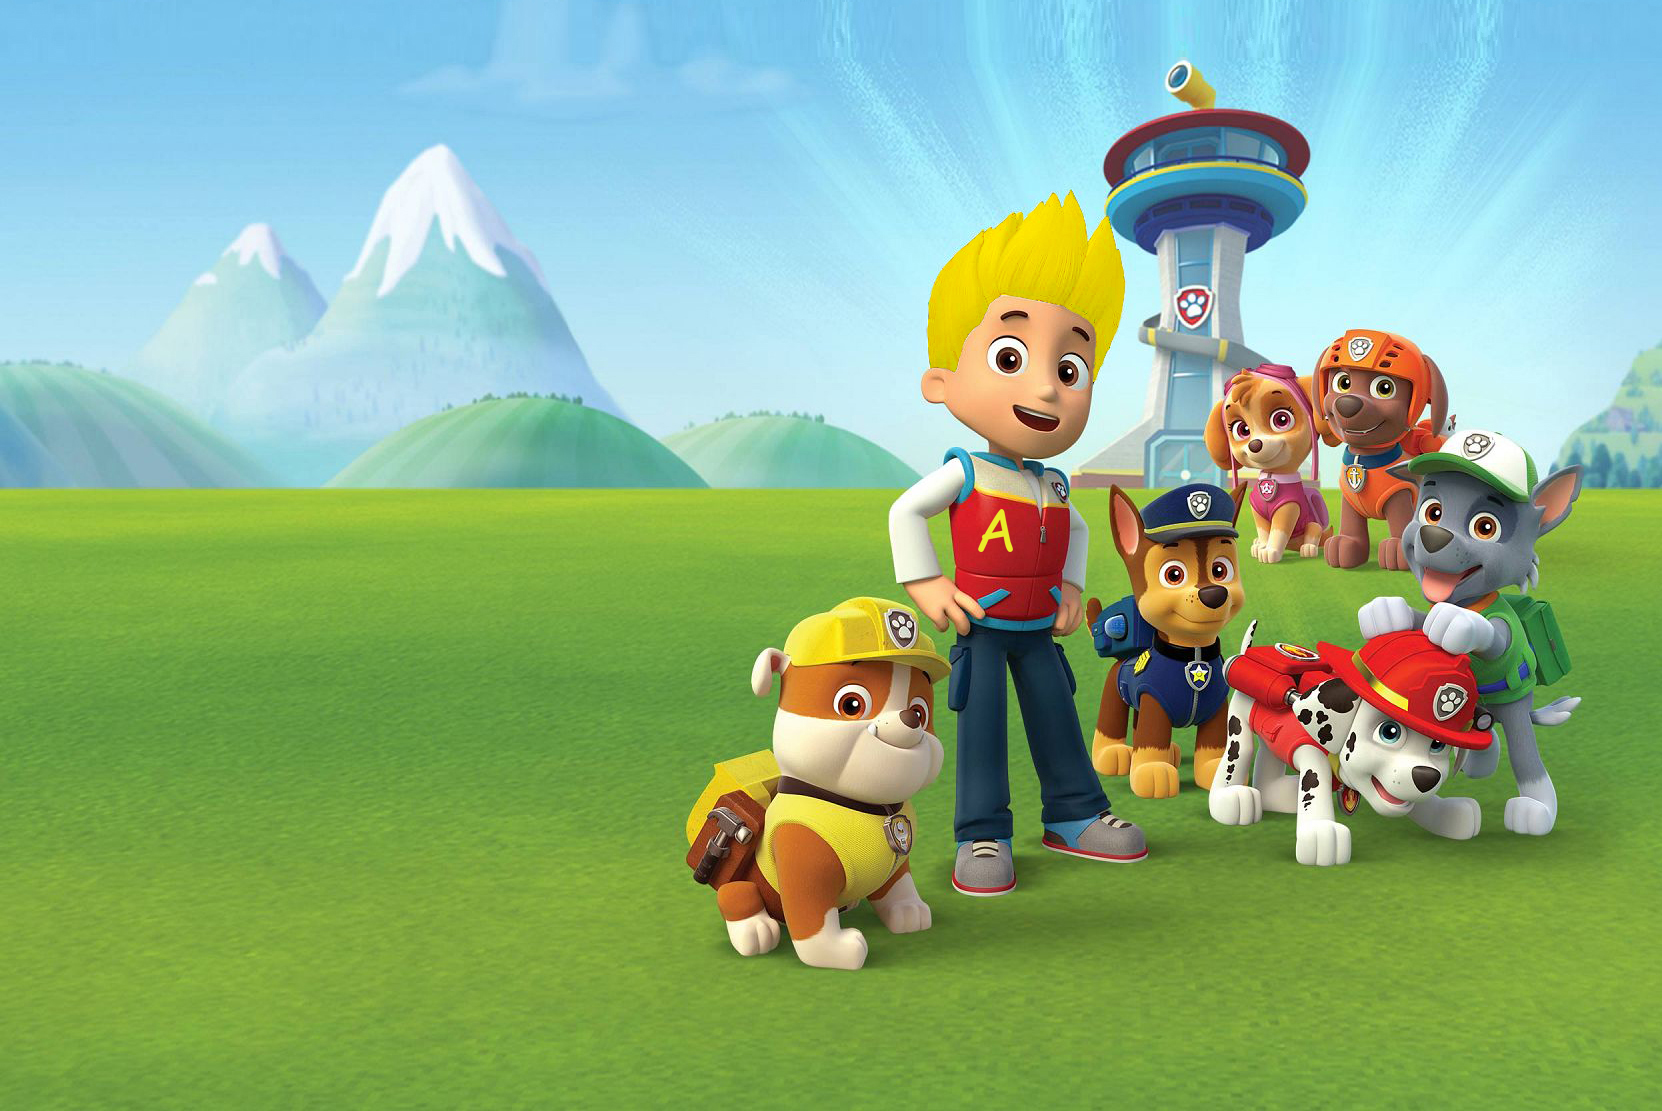
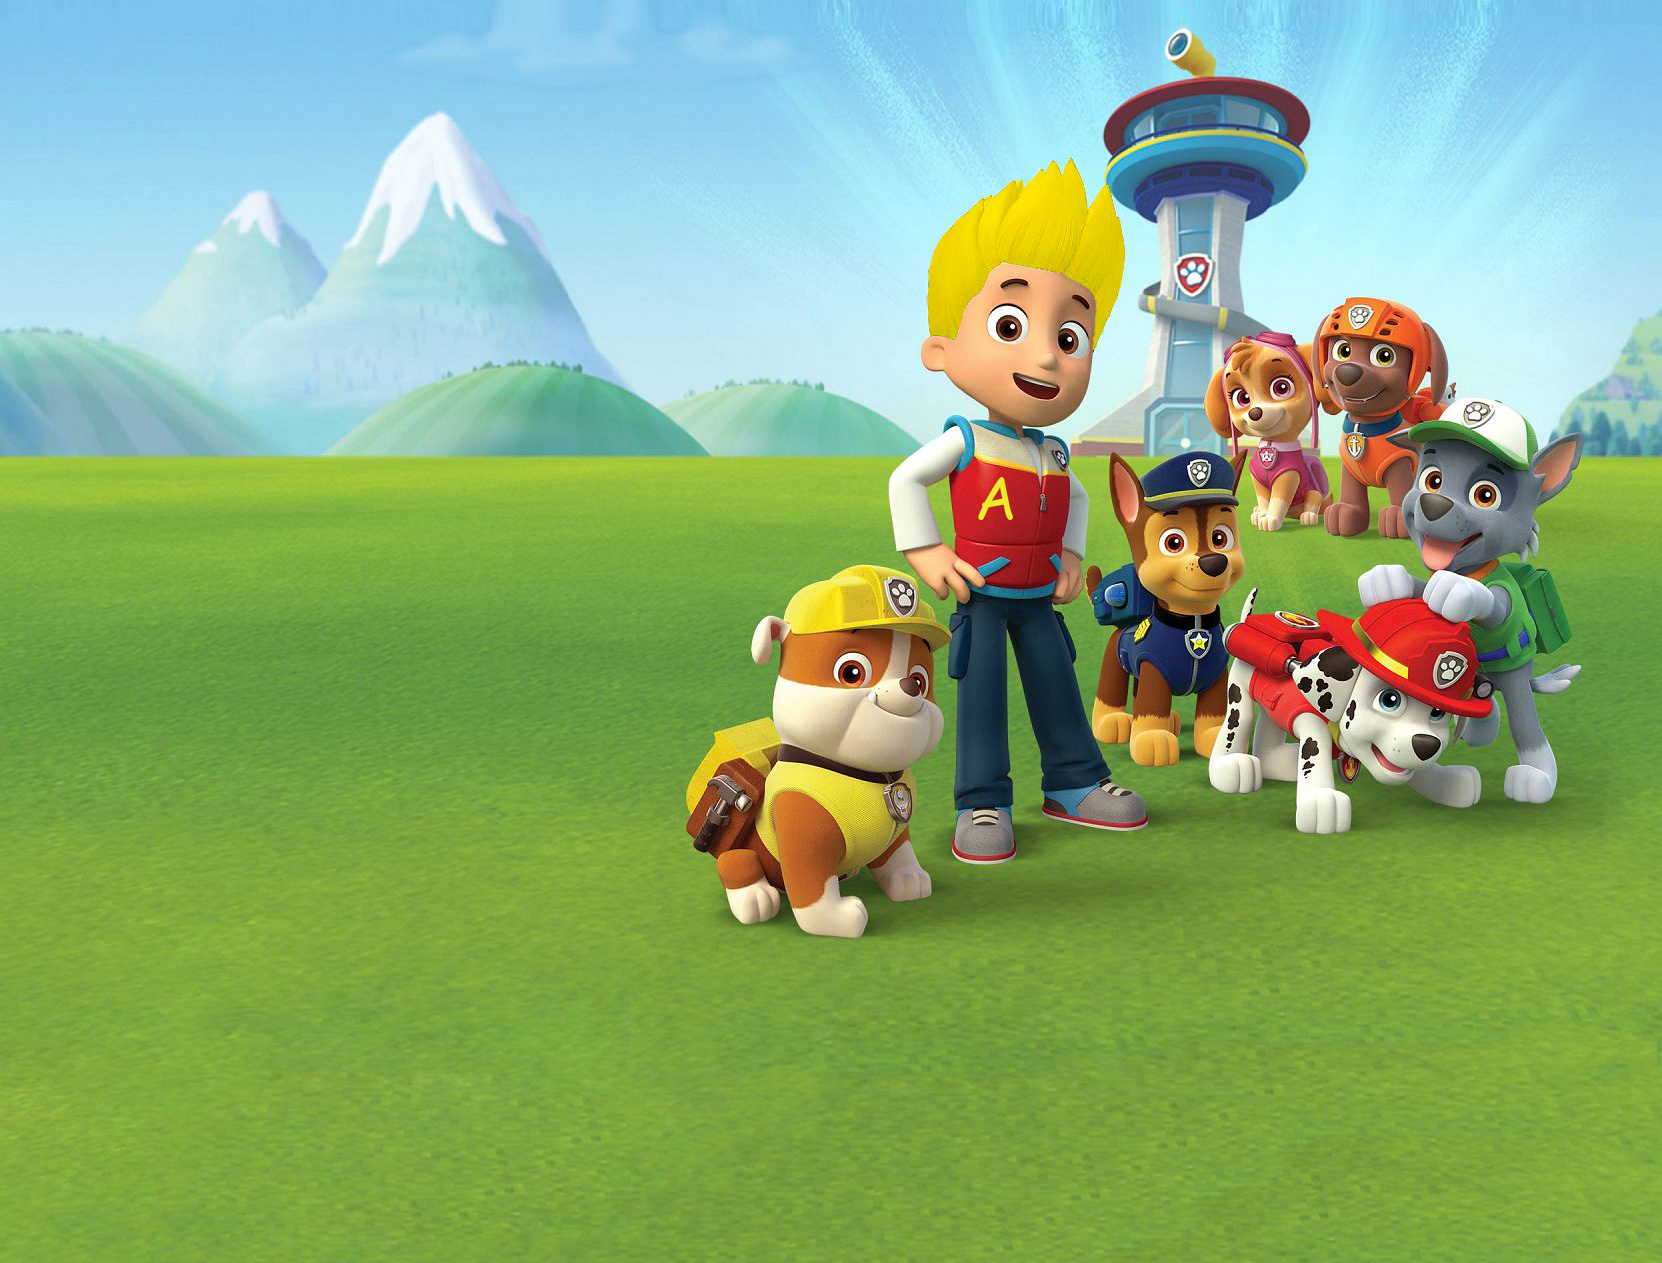
responsive for small screens

diff --git a/style.css b/style.css
@@ -10,8 +10,11 @@ body {
     width: 100vw;
     height: 100vh;
     background-image: url("images/background1.jpg");
-    background-position: center;
+    background-position: top;
     background-size: cover;
+    background-repeat: no-repeat;
+    background-color: #82aa38;
+    overflow-x: hidden;
 }
 h1 {
     margin: 2%;
@@ -21,17 +24,28 @@ h1 {
     text-shadow: 5px 5px 5px grey;
 
 }
+a {
+    text-decoration: none;
+}
 
+#stress {
+    font-size: 5vh;
+}
 #pawty {
-
+    margin: auto 8%;
+    background-image: url("images/pawty1.png");
+    width: 40%;
+    height: 20%;
+    background-repeat: no-repeat;
+    background-size: contain;
 }
 
 section {
     position: relative;
     margin: 2vw;
     padding: 2vw;
-    width: 50%;
-    height: 50%;
+    width: 45%;
+    height: auto;
     border: 1px solid papayawhip;
     border-radius: 20px;
     background: rgba(245, 245, 245, 0.4);
@@ -46,21 +60,72 @@ section {
 
 }
 
+p {
+    margin-top: 2%;
+}
+
 #portrait {
     position: absolute;
-    margin-right: 10%;
+    right: 5%;
+    top: 5%;
     background-image: url("images/portrait.jpg");
     background-repeat: no-repeat;
     background-size: cover;
-    width: 15vw;
-    height: 15vw;
+    width: 14vw;
+    height: 14vw;
     border-radius: 50%;
-    border: 1px solid whitesmoke;
+    border: 10px solid whitesmoke;
 }
 
 strong {
     color: darkred;
     font-weight: 600;
+    margin-top: 2%;
 }
 
+#name {
+    margin-left: 80%;
+    font-size: 4vh;
+}
+
+@media only screen and (max-width: 500px){
+    section {
+        position: absolute;
+        width: 94.6%;
+        top: 54.7%;
+        font-size: 18px;
+        display: flex;
+        justify-content: flex-start;
+        height: auto;
+    }
+    body {
+        width: 100vw;
+        height: 100vh;
+        background-image: url("images/background.jpg");
+        background-position: top;
+        background-size: contain;
+        background-repeat: no-repeat;
+        background-color: #82aa38;
+    }
+    h1 {
+        color: whitesmoke;
+        font-size: 5.3vh;
+        align-content: center;
+        top: 40%;
+        left: 5%;
+        position: absolute;
+    }
+    #pawty {
+        position: absolute;
+        width: 80%;
+        height: 20%;
+        top: 47%;
+    }
+
+    #portrait {
+        width: 150px;
+        height: 150px;
+        top: 2%;
+    }
+}
 

diff --git a/index.html b/index.html
@@ -2,6 +2,7 @@
 <html lang="en" >
 <head>
     <meta charset="UTF-8">
+    <meta name="viewport" content="width=device-width, initial-scale=1.0">
     <link rel="stylesheet" href="style.css">
     <title>You are invited!</title>
 </head>
@@ -10,13 +11,13 @@
 <div id="pawty"></div>
 <div id="portrait"></div>
 <section id="text">
-    <strong>Horray! I am 2 years old already! Let's celebrate!</strong>
-    <p>I invite you and your family to our PAW-TY, which will happen on 19 of March between 14:00 and 19:00.</p>
-    <p>The address: GC Luchtbal - First floor - Hondurasstraat 6 - 8, 2030 Antwerpen.</p>
+    <strong id="stress">Horray! I am 2 years old already! Let's celebrate!</strong>
+    <p>I invite you and your family to our PAW-TY, which will happen on <strong>19 of March between 14:00 and 19:00</strong>.</p>
+    <p>The address:</p> <a href="https://goo.gl/maps/STjM4v7GSHYeBnor9" title="Google map">GC Luchtbal - First floor - Hondurasstraat 6 - 8, 2030 Antwerpen</a>
     <p>I hope that you all come! Me and my parents really really miss you :)</p>
     <p>We prepare food and drinks (and of course CAKE! Nom-nom!), animation and toys for my friends and super bubble show from 15:00 till 17:00 (Have you ever been inside of the huuuuuge bubble?!)</p>
-    <strong>Arthur</strong>
-    <p>PS Let mama and papa know if you join, please, till 25 of February, okay? Hooorrrray!</p>
+    <strong id="name">Arthur</strong>
+    <p><strong>PS</strong> Let mama and papa know if you join, please, till 25 of February, okay? Hooorrrray! See you soon!!!</p>
 </section>
 <img src="images/button.png" width="300px">
 </body>
